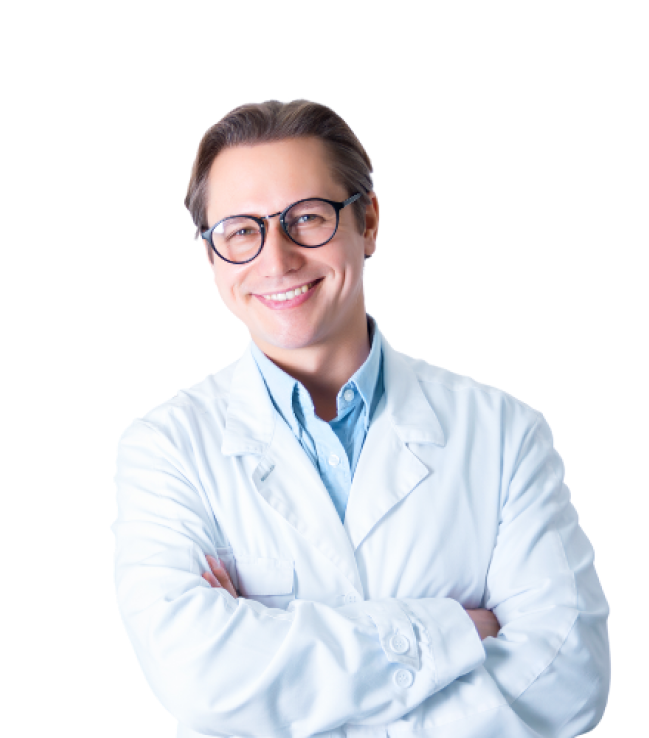
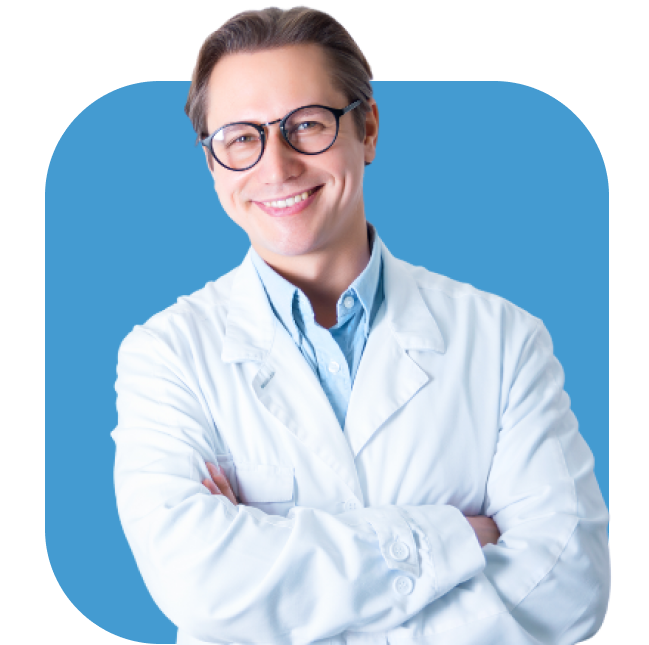
update

diff --git a/style.css b/style.css
@@ -17,56 +17,52 @@ body {
   margin: 0 auto;
 }
 
+ul {
+  list-style: none;
+}
+
 /* Media Query for responsiveness */
-@media screen and (max-width: 768px) {
+@media screen and (max-width: 1000px) {
   .container {
     max-width: 100%;
+    padding: 0 20px;
   }
 }
 
 /* Navbar */
-
 .hero_wrapper {
   padding-top: 50px;
 }
 
-.first_main_section {
-  margin-top: 1.8125rem;
-  background-color: #effbfb;
-  height: 100%;
+.menu-btn {
+  display: none; 
+  cursor: pointer;
 }
 
-.main_sec {
-  width: 100%;
+.navbar {
   display: flex;
+  align-items: center;
   justify-content: space-between;
-  align-items: center;
-  flex-wrap: wrap;
 }
 
-.nav_main_sec {
-  display: flex;
-  align-items: center;
-  flex-wrap: wrap;
-}
-
-.nav ul {
+.menu-list {
   display: flex;
   gap: 60px;
   flex-wrap: wrap;
+  list-style: none;
+  margin: 0;
+  padding: 0;
 }
 
-.nav ul li {
-  list-style: none;
-  font-family: "Poppins";
+.menu-list li a {
   font-weight: 500;
   font-size: 1.125rem;
   color: rgba(0, 0, 0, 0.7);
+  text-decoration: none;
 }
 
-.logo img {
-  width: 118px;
-  height: 123px;
+.cancel-btn {
+  display: none;
 }
 
 .nav_btn a {
@@ -80,16 +76,50 @@ body {
   text-decoration: none;
 }
 
-.nav-links {
-  display: none;
-}
+@media screen and (max-width: 768px) {
+  .menu-btn {
+    display: block; 
+  }
 
-.nav-links.show {
-  display: block;
-}
+  .cancel-btn {
+    display: block;
+  }
+  .menu-list {
+    position: fixed;
+    width: 100%;
+    max-width: 400px;
+    left: -100%;
+    top: 0px;
+    gap: 0px;
+    display: flex;
+    flex-direction: column;
+    align-items: center;
+    justify-content: center;
+    background: #80b6e3;
+    padding: 40px 0;
+    text-align: center;
+    transition: all 0.3s ease;
+  }
 
-.menu-toggle {
-  display: none;
+  .cancel-btn {
+    position: absolute;
+    left: 20px;
+    top: 20px;
+  }
+  .menu-list.show {
+    left: 0%;
+  }
+  .menu-list li {
+    margin-top: 45px;
+  }
+  .menu-list li a {
+    font-size: 23px;
+    margin-left: -100%;
+    transition: 0.6s cubic-bezier(0.68, -0.55, 0.265, 1.55);
+  }
+  .menu-list.show li a {
+    margin-left: 0px;
+  }
 }
 
 /* hero section start  */
@@ -97,7 +127,7 @@ body {
 .hero_section {
   display: flex;
   justify-content: space-between;
-  flex: 100%;
+  flex-wrap: wrap;
 }
 
 .hero_section_text {
@@ -143,11 +173,7 @@ body {
   max-width: 245px;
 }
 
-.hero_section_image {
-  border-radius: 50px;
-  background: rgba(37, 138, 201, 0.86);
-  flex-shrink: 0;
-}
+
 
 .hero_section_image img {
   width: 450px;
@@ -158,6 +184,7 @@ body {
   justify-content: space-between;
   flex-wrap: wrap;
   padding-top: 30px;
+  gap: 40px;
 }
 
 .icon_one {
@@ -266,27 +293,14 @@ body {
 }
 
 .new_section_image {
-  width: 400px;
-  height: 500px;
-  border-radius: 50px;
-  background-color: #227cb7;
-  display: flex;
-  justify-content: center;
-  align-items: center;
-  overflow: hidden;
-}
-
-.new_section_image img {
   width: 100%;
-  height: 100%;
-  object-fit: cover;
-  object-position: center;
 }
 
 .new_secion_inner3 {
   display: flex;
   margin-bottom: 20px;
   flex-wrap: wrap;
+  justify-content: center;
 }
 
 .new_secion_inner_text {
@@ -324,6 +338,7 @@ body {
   display: flex;
   justify-content: space-around;
   flex-wrap: wrap;
+  gap: 40px;
 }
 
 .project_section_box {
@@ -707,6 +722,7 @@ h3 {
   justify-content: space-between;
   flex-wrap: wrap;
   padding: 100px 0 70px 0;
+  gap: 20px;
 }
 
 .footer_content_one {
@@ -785,5 +801,36 @@ h3 {
   }
   .menu-toggle {
     display: block; 
+  }
+}
+
+@media screen and (max-width: 630px) {
+  .hero_section_text {
+    max-width: 100%;
+  }
+
+  .new_secion_inner3 {
+    text-align: center;
+    flex-direction: column;
+    justify-content: center;
+    align-items: center;
+  }
+  .accordion-item a {
+    font-size: 18px;
+  }
+  
+}
+
+@media screen and (max-width: 900px) {
+  .card_image_section {
+    justify-content: center;
+    align-items: center;
+    gap: 80px;
+  }
+}
+
+@media screen and (max-width: 900px) {
+  .nav_btn {
+    display: none;
   }
 }

diff --git a/index.html b/index.html
@@ -8,30 +8,34 @@
     <link rel="preconnect" href="https://fonts.gstatic.com" crossorigin />
     <link href="https://fonts.googleapis.com/css2?family=Poppins:wght@400;500;600;700;900&family=Public+Sans:wght@300;400&display=swap" rel="stylesheet" />
     <link rel="stylesheet" type="text/css" href="https://cdnjs.cloudflare.com/ajax/libs/slick-carousel/1.8.1/slick.min.css" />
+    <link href="https://cdnjs.cloudflare.com/ajax/libs/font-awesome/5.13.0/css/all.min.css" rel="stylesheet">
     <link rel="stylesheet" href="./style.css" />
   </head>
-
   <body>
     <div class="container">
-      <div class="main_sec">
-        <div class="logo">
-          <img src="./images/cechdent-1200x1200-1-removebg-preview 1.png" alt="" />
-        </div>
-        <div class="nav_main_sec">
-			<button class="menu-toggle">Menu</button>
-          <div class="nav">
-            <ul>
-              <li>Domov</li>
-              <li>O metóde</li>
-              <li>O nás</li>
-              <li>Kontakt</li>
-            </ul>
+      <div class="navbar">
+          <div class="logo">
+            <a href="#"> <img src="./images/cechdent-1200x1200-1-removebg-preview 1.png" alt="" /></a>
           </div>
-        </div>
-        <div class="nav_btn">
-          <a href="https://cechdent.sk/book">Objednať termín</a>
-        </div>
+          <ul class="menu-list">
+            <div class="icon cancel-btn">
+              <i class="fas fa-times"></i>
+            </div>
+            <li><a href="#">Home</a></li>
+            <li><a href="#">About</a></li>
+            <li><a href="#">Services</a></li>
+            <li><a href="#">Features</a></li>
+            <li><a href="#">Contact</a></li>
+          </ul>
+          <div class="icon menu-btn">
+            <i class="fas fa-bars"></i>
+          </div>
+          <div class="nav_btn">
+            <a href="https://cechdent.sk/book">Objednať termín</a>
+          </div>
       </div>
+    
+      </div> 
       <div class="hero_wrapper">
         <div class="container">
           <div class="hero_section">
@@ -389,6 +393,8 @@
         <div class="slider_circle">
           <div class="slider_circle_one">
             <img src="./images/Ellipse 25.png" alt="" />
+            <img src="./images/Ellipse 25.png" alt="" />
+            <img src="./images/Ellipse 25.png" alt="" />
           </div>
           <!-- Add more slider circles as needed -->
         </div>
@@ -485,9 +491,7 @@
             </div>
             <div class="last-footer_section">
               <div class="last_footer">
-                <svg xmlns="http://www.w3.org/2000/svg" height="2em" viewBox="0 0 384 512">
-                  <path d="M215.7 499.2C267 435 384 279.4 384 192C384 86 298 0 192 0S0 86 0 192c0 87.4 117 243 168.3 307.2c12.3 15.3 35.1 15.3 47.4 0zM192 128a64 64 0 1 1 0 128 64 64 0 1 1 0-128z" />
-                </svg>
+                <img src="./images/Group 2.png" alt="" />
               </div>
               <div class="last_footer_one">
                 <p>

diff --git a/index.js b/index.js
@@ -31,4 +31,12 @@ $(document).ready(function() {
 });
 
 
+// Get the elements needed
+const menuBtn = document.querySelector('.menu-btn');
+const menuList = document.querySelector('.menu-list');
+
+// Toggle the mobile menu on button click
+menuBtn.addEventListener('click', () => {
+  menuList.classList.toggle('show');
+});
 
